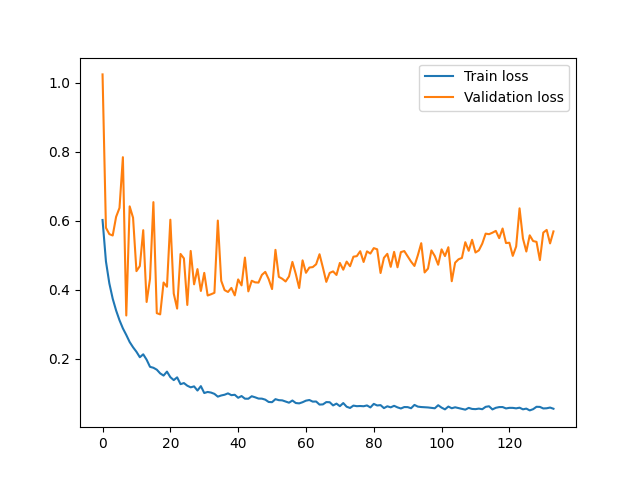
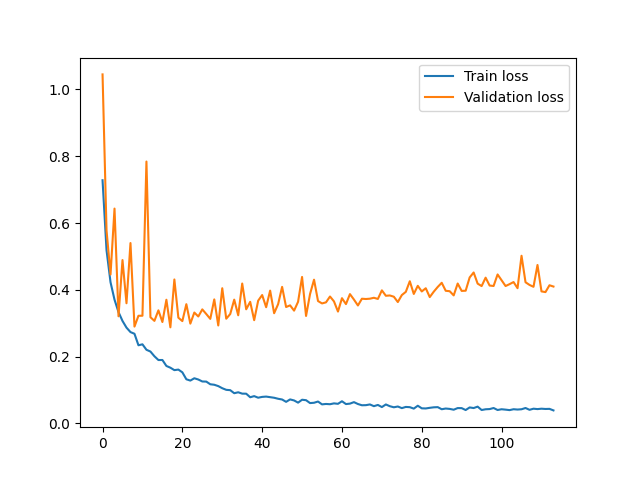
In development...

diff --git a/Evaluation_main.py b/Evaluation_main.py
@@ -43,7 +43,10 @@ def main_pipe(full_histones, amp, nChannel, batch_size):
 
     for g_num, histones in enumerate(full_histones):
         # Image Processing
-        histones_label = Labeling.make_label(histones, radius=0.45, density=0.4)
+        #histones_label = Labeling.make_label(histones, radius=0.45, density=0.4)
+        report_path = './result/old_eval_all_35300h2b.csv'
+        histones_label = Labeling.label_from_report(histones, report_path)
+
         ImagePreprocessor.make_channel(histones, immobile_cutoff=0.3, hybrid_cutoff=10, nChannel=nChannel)
         histones_imgs, img_size, time_scale = ImagePreprocessor.preprocessing(histones, img_scale=10, amp=amp)
         zoomed_imgs, scaled_size = ImagePreprocessor.zoom(histones_imgs, size=img_size, to_size=(500, 500))

diff --git a/MakeImage.py b/MakeImage.py
@@ -26,7 +26,7 @@ def recursive_fileSearch(path, filename, h2b_ids, cls, lbs, img_save_path, img_o
 
     if filename in files:
         params = ReadParam.read('.')
-        histones, _ = DataLoad.read_file(f'{path}/{filename}', 0)
+        histones = DataLoad.read_file(f'{path}/{filename}', 0)
         temp = {}
         for hist in histones:
             for index, hid in enumerate(h2b_ids):
@@ -66,7 +66,7 @@ if __name__ == '__main__':
         img_option = 1
 
     data_path = './data'
-    report_path = './result/old_eval_all_35300h2b.csv'
+    report_path = './result/retrain_label(1).csv'
     img_save_path = './result/image'
     header, data = DataLoad.read_report(report_path)
 

diff --git a/DataAnalysis.py b/DataAnalysis.py
@@ -109,7 +109,7 @@ def bootstrapping_mean(report, repeat=1000):
 
 
 #bootstrapping_mean('./result/before/all.csv', repeat=10000)
-#confusion_matrix('./result/15min/eval_all.csv')
+#confusion_matrix('./result/retrain_label(1).csv')
 
 #histones = DataLoad.file_distrib(['./data/1_WT-H2BHalo_noIR/whole cells/20220217_h2b halo_before_irradiation_entire_Cell/20220217_h2b halo_cell6_no_ir003.rpt_tracked.trxyt'], cutoff=5)[0][0]
 #ImagePreprocessor.make_gif(histones, '20220217_h2b halo_cell6_no_ir003.rpt_tracked.trxyt', '1846')

diff --git a/ImagePreprocessor.py b/ImagePreprocessor.py
@@ -289,10 +289,6 @@ def img_save(img, h2b, img_size, histone_first_pos=None, amp=2, path='.'):
     if proba is not None:
         ps += '\nprobability = ' + str(proba)
 
-    plt.imshow(img)
-
-    plt.show()
-
     if histone_first_pos is None:
         plt.imshow(img, cmap='coolwarm', origin='lower')
     else:
